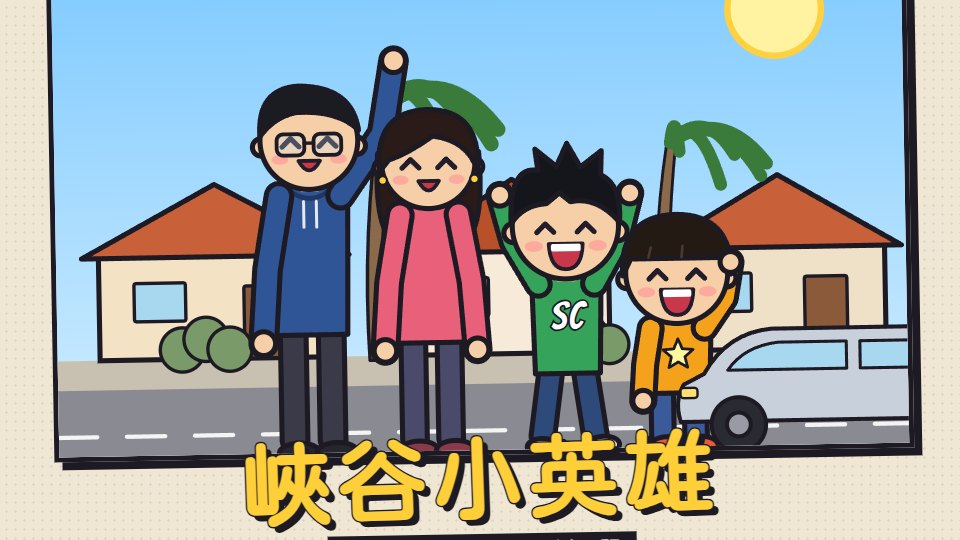
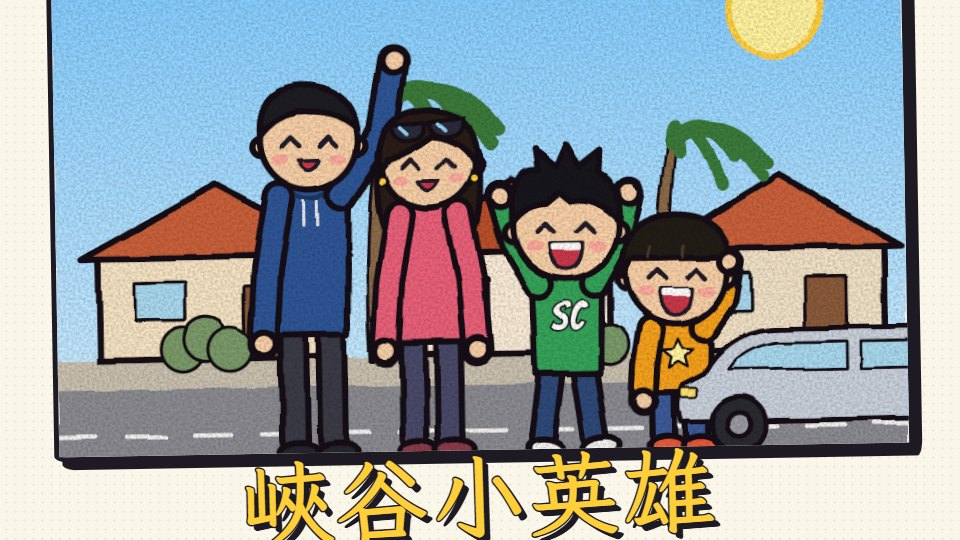
Canyon Kids: new Dog Man style thumbnail

diff --git a/games.js b/games.js
@@ -13,7 +13,7 @@ window.GAMES = [
   {
     id: 'canyonkids',
     url: '/canyon-kids-comic/',
-    thumb: 'thumbs/canyonkids.jpg?v=1',
+    thumb: 'thumbs/canyonkids.jpg?v=2',
     color: '#ffcf3a',
     genres: ['story', 'learning'],
     devices: ['keyboard', 'touch'],
